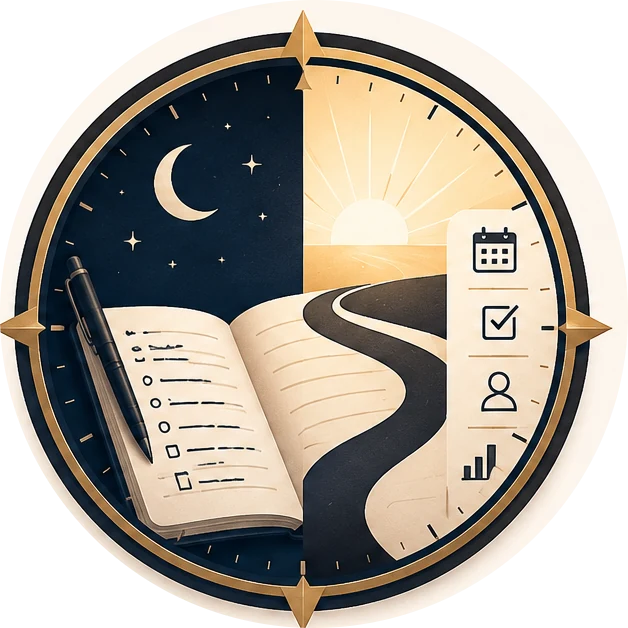
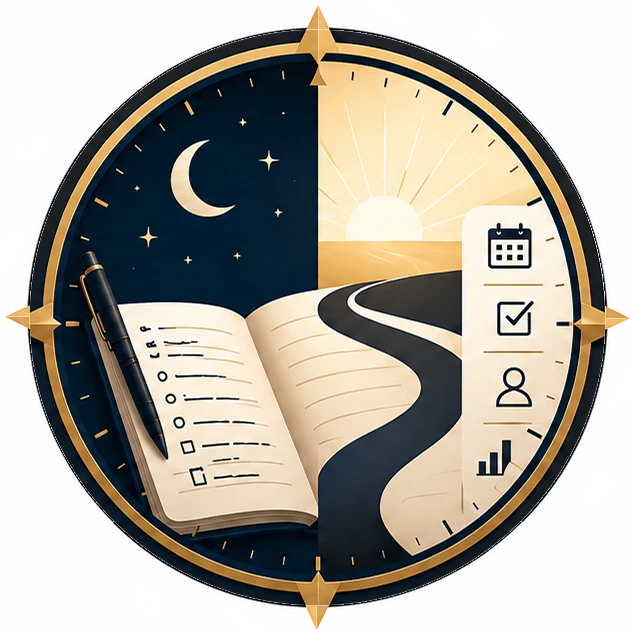
Make the compass dial land on the same picture after every quarter turn
Two things were rotating that could not match themselves. The emblem was drawn from
assets/emblem.png, which is cropped off centre and clips the west and south compass
points harder than the east and north ones, so a quarter turn moved a short point to
where a long one had been. And the seam sat inside the navy ring, which is shaded from
one side, so turning any part of it changed the picture.

The emblem is now cut from the lockup instead, on an odd-sided square centred on the
ring to a fraction of a pixel. Its outer band is rebuilt from the northern quadrant —
the one with nothing else near it — copied to all four, which both removes the top of
the wordmark that fell inside the crop and makes the four points identical to the pixel.
The seam moves just outside the ring, so the only thing that turns is the points.

Measured over the rotating band, the worst difference between rest positions drops from
244 of 255 to nothing the mask edge can't account for. The sweep itself is unchanged:
mid-tick the points sit on the diagonals, as before.

diff --git a/apps/web/src/components/hero/logo-geometry.ts b/apps/web/src/components/hero/logo-geometry.ts
@@ -3,9 +3,9 @@
 // Place the ring and the wordmark and tagline land exactly where the original lockup has them.
 export const LOGO = {
   /** The emblem file is this many ring radii wide, drawn at this offset from the ring centre. */
-  emblem: { size: 2.1768, dx: -1.0466, dy: -1.1159 },
+  emblem: { size: 2.2, dx: -1.1, dy: -1.1 },
   wordmark: { x: -1.8106, y: 1.0113, w: 3.6568, h: 0.8674 },
   tagline: { x: -1.3006, y: 1.9377, w: 2.609, h: 0.0833 },
   /** The spinning copy is clipped to this band; the static copy ends at its inner edge. */
-  wheel: { inner: 0.975, outer: 1.3 },
+  wheel: { inner: 1.005, outer: 1.3 },
 } as const;

diff --git a/scripts/hero-logo-slices.py b/scripts/hero-logo-slices.py
@@ -1,10 +1,14 @@
 """Cut the dayMarkable lockup into hero animation assets and measure its geometry.
 
 The landing hero (apps/web/src/components/hero/HeroBuild.tsx) builds the logo in the middle of
-the scene and then uses its emblem as the machine that converts pages. To do that the emblem is
-drawn from the standalone transparent file, so its outer ring can be clipped off and spun on its
-own, while the wordmark and tagline come from the lockup artwork — and all three have to line up
-exactly the way the original lockup has them.
+the scene and then uses its emblem as the machine that converts pages: its outer band is clipped
+off and spun on its own. All three parts are cut from the lockup artwork, so they line up exactly
+the way the original lockup has them.
+
+The emblem comes from the lockup rather than from assets/emblem.png because that file is cropped
+off centre — it clips the west and south compass points harder than the east and north ones, so
+the band did not match itself after a quarter turn. Here the crop is centred on the ring to a
+fraction of a pixel, which is what makes every resting position of the wheel identical.
 
 Everything is measured from the emblem's navy ring, which is a true circle in both files. Its
 centre and radius come from a least-squares circle fit rather than a bounding box, because the
@@ -31,10 +35,11 @@ ART = os.path.join(ROOT, "design", "design_handoff_hero_animation", "assets")
 BRAND = os.path.join(ROOT, "apps", "web", "public", "brand")
 TS = os.path.join(ROOT, "apps", "web", "src", "components", "hero", "logo-geometry.ts")
 
-# Where the handoff's emblem clips fall, as multiples of the ring radius. The static inner copy
-# ends and the spinning outer copy begins inside the uniform navy ring (0.96–1.00), so the seam
-# is invisible and what visibly sweeps is the four gold compass points (1.00–1.13).
-WHEEL_INNER = 0.975
+# Where the emblem is split, as multiples of the ring radius. The seam sits just outside the navy
+# ring: the ring is shaded from one side, so spinning any part of it would land on a different
+# picture after a quarter turn. Everything that moves is therefore the four compass points, which
+# are identical to each other, and the logo at rest is the same at every stop.
+WHEEL_INNER = 1.005
 WHEEL_OUTER = 1.30
 
 
@@ -108,12 +113,40 @@ tag = cut(blocks[1][0], blocks[-1][1], "lockup-tagline", 86)
 print("wordmark box", word, "\ntagline box ", tag)
 
 # ---------------------------------------------------------------- the emblem
-emb = Image.open(os.path.join(ART, "emblem.png")).convert("RGBA")
-ES = emb.size[0]
-ea = np.array(emb).astype(np.int16)
-ecx, ecy, er = fit_ring((ea[..., 3] > 200) & (ea[..., :3].mean(-1) < 110), ES)
-print(f"emblem {emb.size}  ring ({ecx:.1f}, {ecy:.1f}) r {er:.1f}")
-emb.save(os.path.join(BRAND, "emblem.webp"), quality=88, method=6)
+# A square centred on the ring, wide enough for the compass points and no wider. The side is odd
+# so the ring centre sits exactly on the middle pixel, which lets the quadrants below be rotated
+# into place by whole right angles with no resampling and no drift.
+HALF = 1.10
+k = int(round(HALF * lr))
+size = 2 * k + 1
+box = lock.transform((size, size), Image.AFFINE, (1, 0, lcx - k, 0, 1, lcy - k), resample=Image.BICUBIC)
+bpx = np.array(box).astype(np.float32)
+gy, gx = np.mgrid[0:size, 0:size]
+er_ = np.hypot(gx - k, gy - k) / lr
+eang = (np.degrees(np.arctan2(gy - k, gx - k)) + 360) % 360
+
+# Inside the ring everything is rotationally symmetric, so it is kept as it is — and kept opaque,
+# because the artwork in there contains cream the background key would otherwise eat.
+inner_a = np.clip((1.002 - er_) / 0.006, 0, 1)
+# Outside the ring there is nothing but the four compass points. The wordmark sits close enough
+# under the emblem to fall inside this crop, so rather than trying to key it out, the whole outer
+# band is built from the northern quadrant — the one quadrant with nothing else near it — copied
+# to all four. That removes the wordmark and makes the four points identical to the pixel, which
+# is what lets the wheel land on the same picture after every quarter turn.
+key_a = np.clip(np.abs(bpx - bg).sum(-1) / 60.0, 0, 1)
+north = (er_ > 1.0) & (np.abs((eang - 270 + 180) % 360 - 180) < 45)
+src_a = np.where(north, key_a, 0.0)
+src_rgb = np.clip(bg + (bpx - bg) / np.maximum(key_a, 0.02)[..., None], 0, 255)
+rots_a = np.stack([np.rot90(src_a, q) for q in range(4)])
+rots_rgb = np.stack([np.rot90(src_rgb, q, axes=(0, 1)) for q in range(4)])
+outer_a = rots_a.max(0)
+outer_rgb = np.take_along_axis(rots_rgb, rots_a.argmax(0)[None, ..., None], axis=0)[0]
+
+alpha = np.maximum(inner_a, outer_a)
+rgb = np.where((inner_a >= outer_a)[..., None], bpx, outer_rgb)
+Image.fromarray(np.dstack([rgb, alpha * 255]).astype(np.uint8), "RGBA").save(
+    os.path.join(BRAND, "emblem.webp"), quality=90, method=6)
+print(f"emblem cut {size}x{size} px, centred on the ring, points rebuilt from the north quadrant")
 
 # ---------------------------------------------------------------- geometry
 u = lambda v: round(float(v), 4)
@@ -125,7 +158,7 @@ with open(TS, "w", encoding="utf-8") as f:
 // Place the ring and the wordmark and tagline land exactly where the original lockup has them.
 export const LOGO = {{
   /** The emblem file is this many ring radii wide, drawn at this offset from the ring centre. */
-  emblem: {{ size: {u(ES / er)}, dx: {u(-ecx / er)}, dy: {u(-ecy / er)} }},
+  emblem: {{ size: {u(2 * HALF)}, dx: {-HALF}, dy: {-HALF} }},
   wordmark: {rel(word)},
   tagline: {rel(tag)},
   /** The spinning copy is clipped to this band; the static copy ends at its inner edge. */
